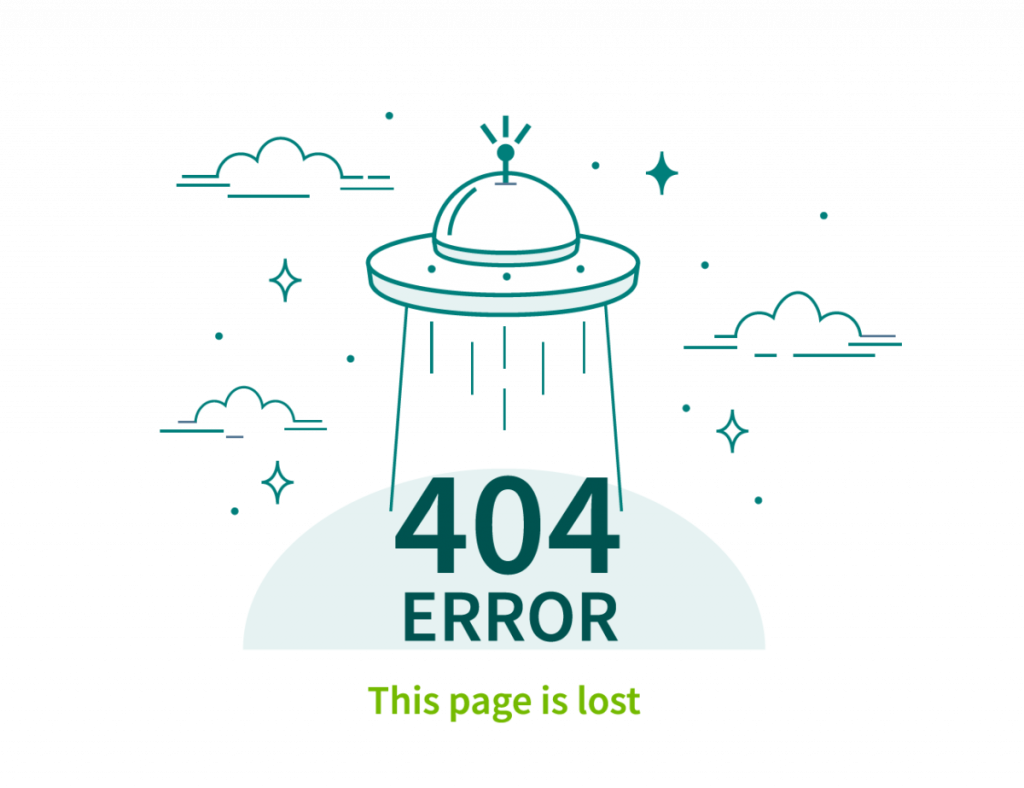
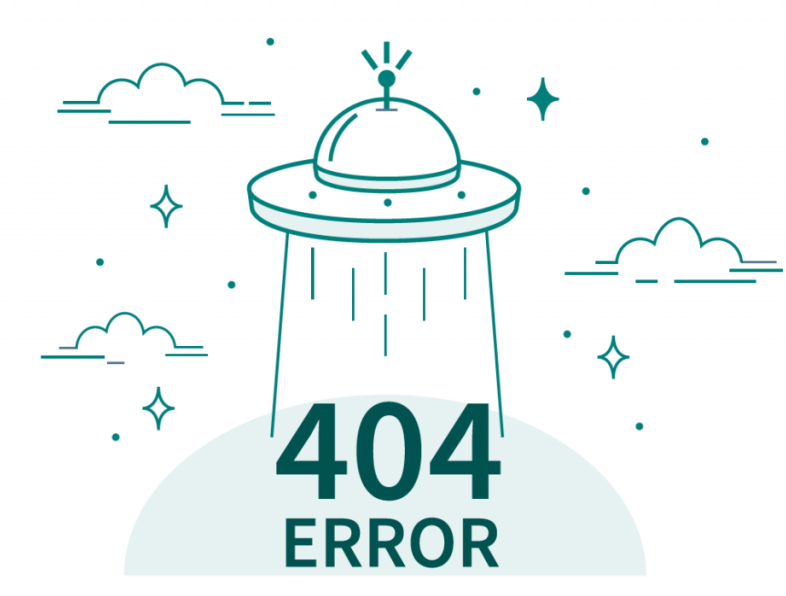
Estilo 404

diff --git a/src/app/components/not-found/not-found.component.html b/src/app/components/not-found/not-found.component.html
@@ -1,4 +1,8 @@
-<div>
-    <img class="" src="assets/img/404.png" alt="" height="800" width="1000">
-    <button class="btn btn-primary m-3 medium shadow" routerLink="/" routerLinkActive="active">Inicio</button>
+<div class="container">
+    <div class="col text-center">
+    <img class="" src="assets/img/404.png" alt="" max-width="800">
+    <br>
+    <h3>Página no encontrada</h3>
+    <button class="btn btn-primary m-3 medium shadow d-relative" routerLink="/" routerLinkActive="active">Volver al inicio</button>
+</div>
 </div>
